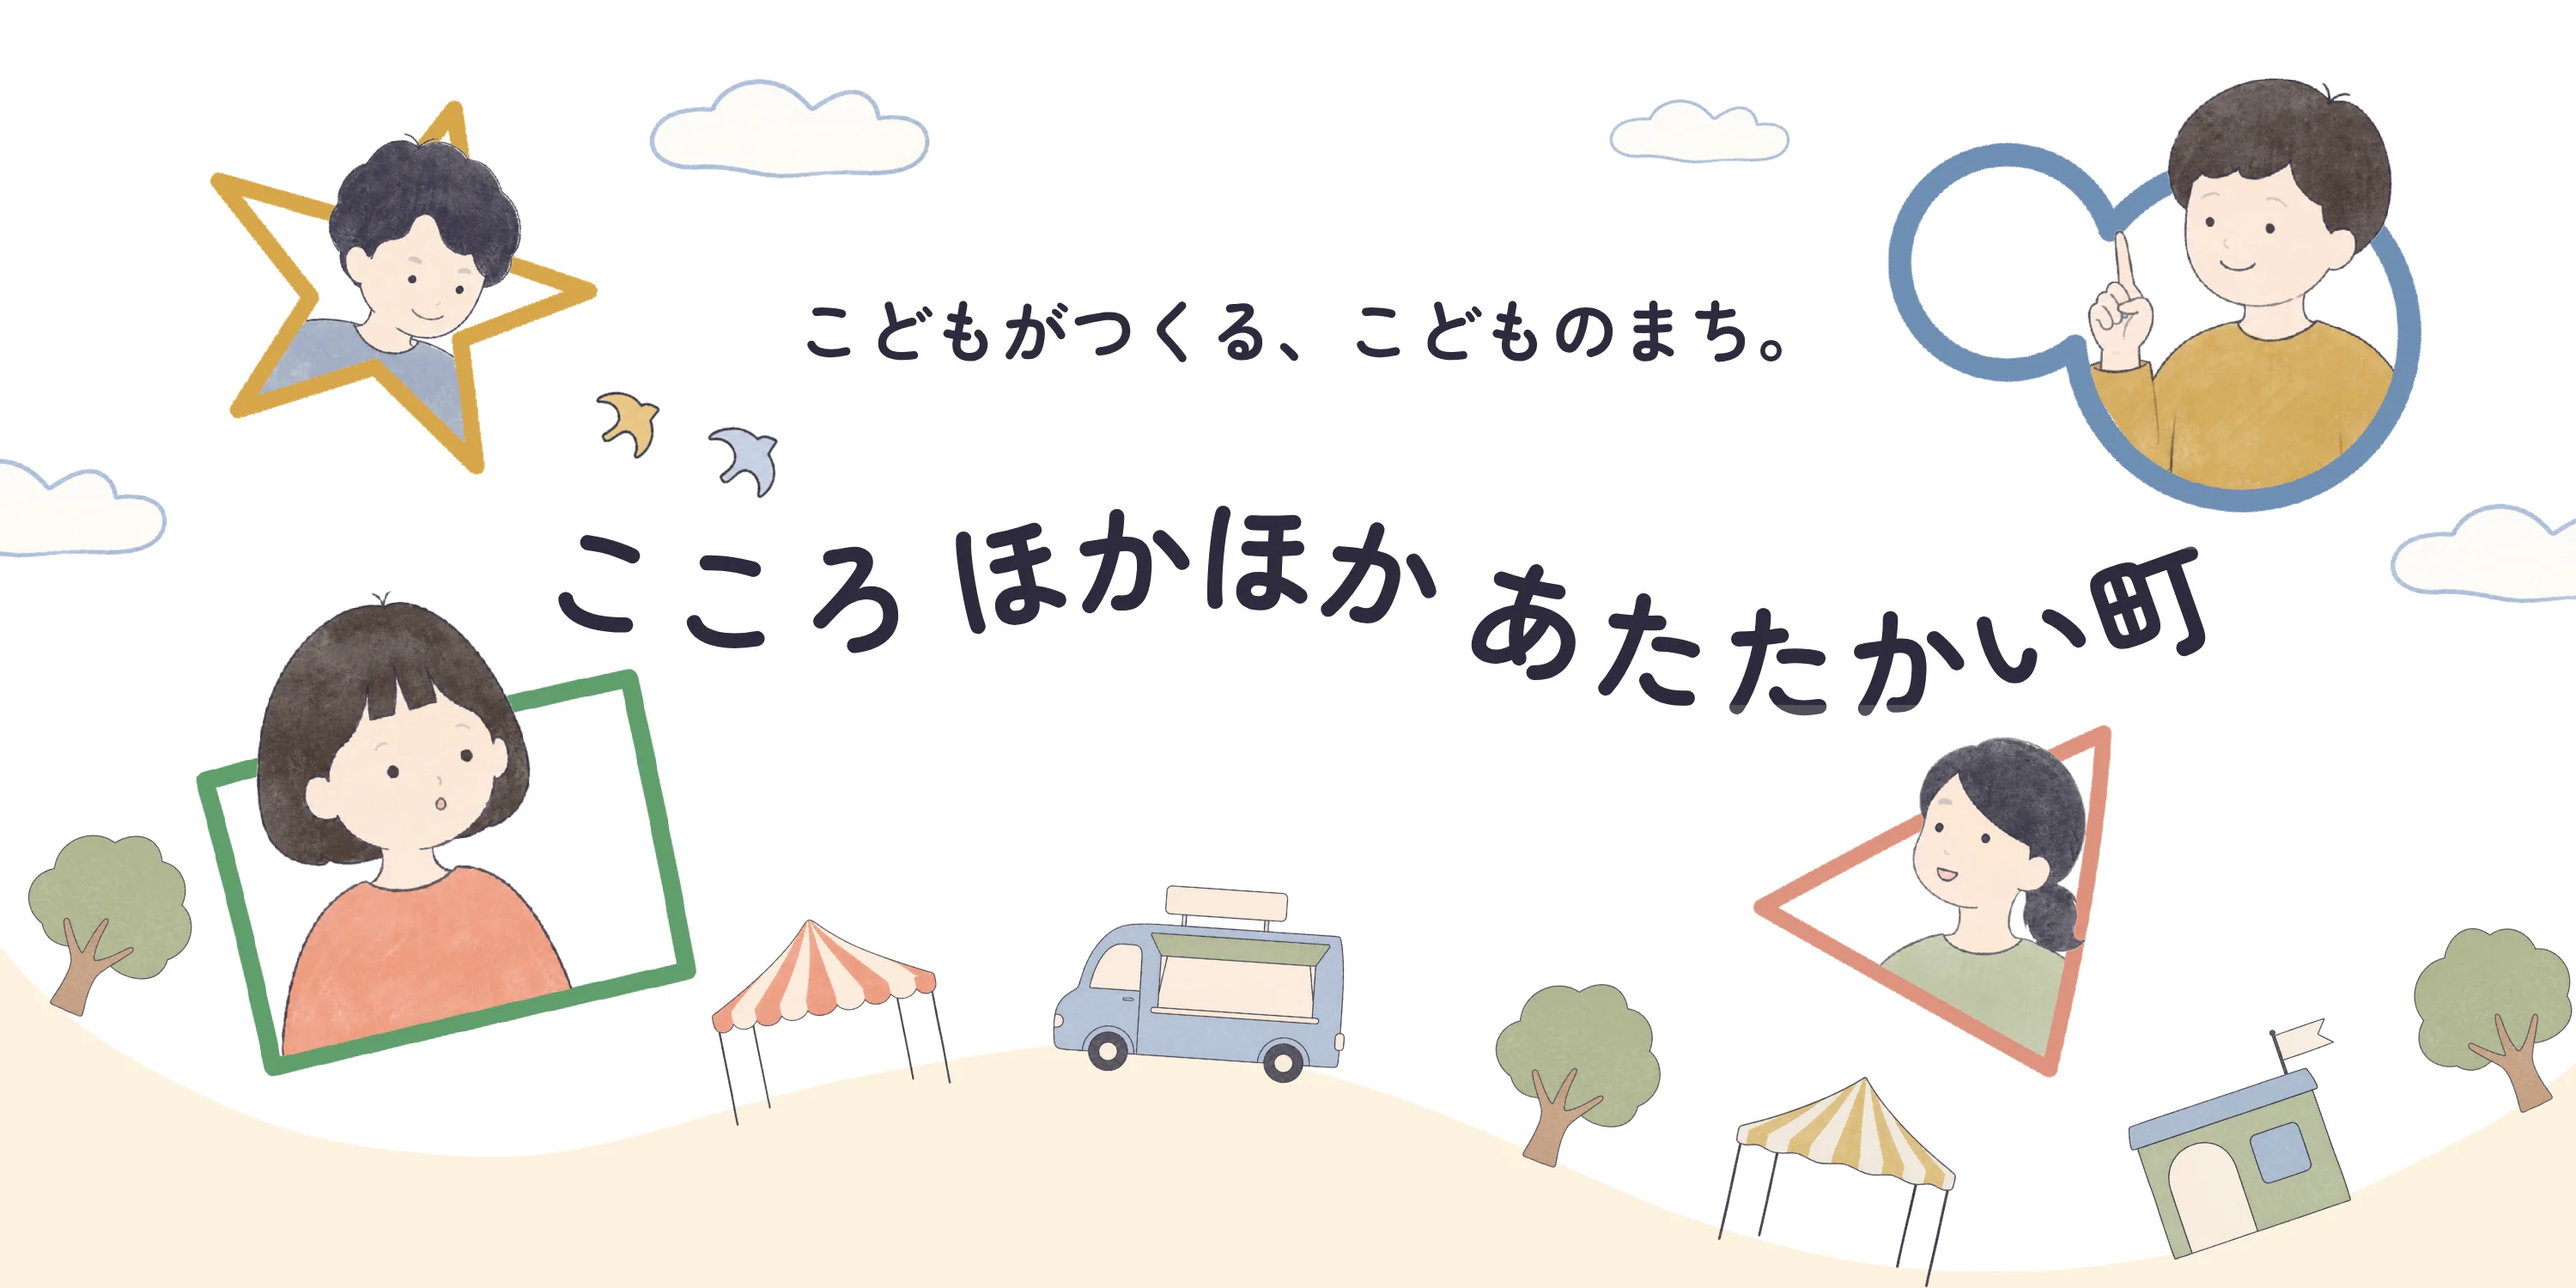
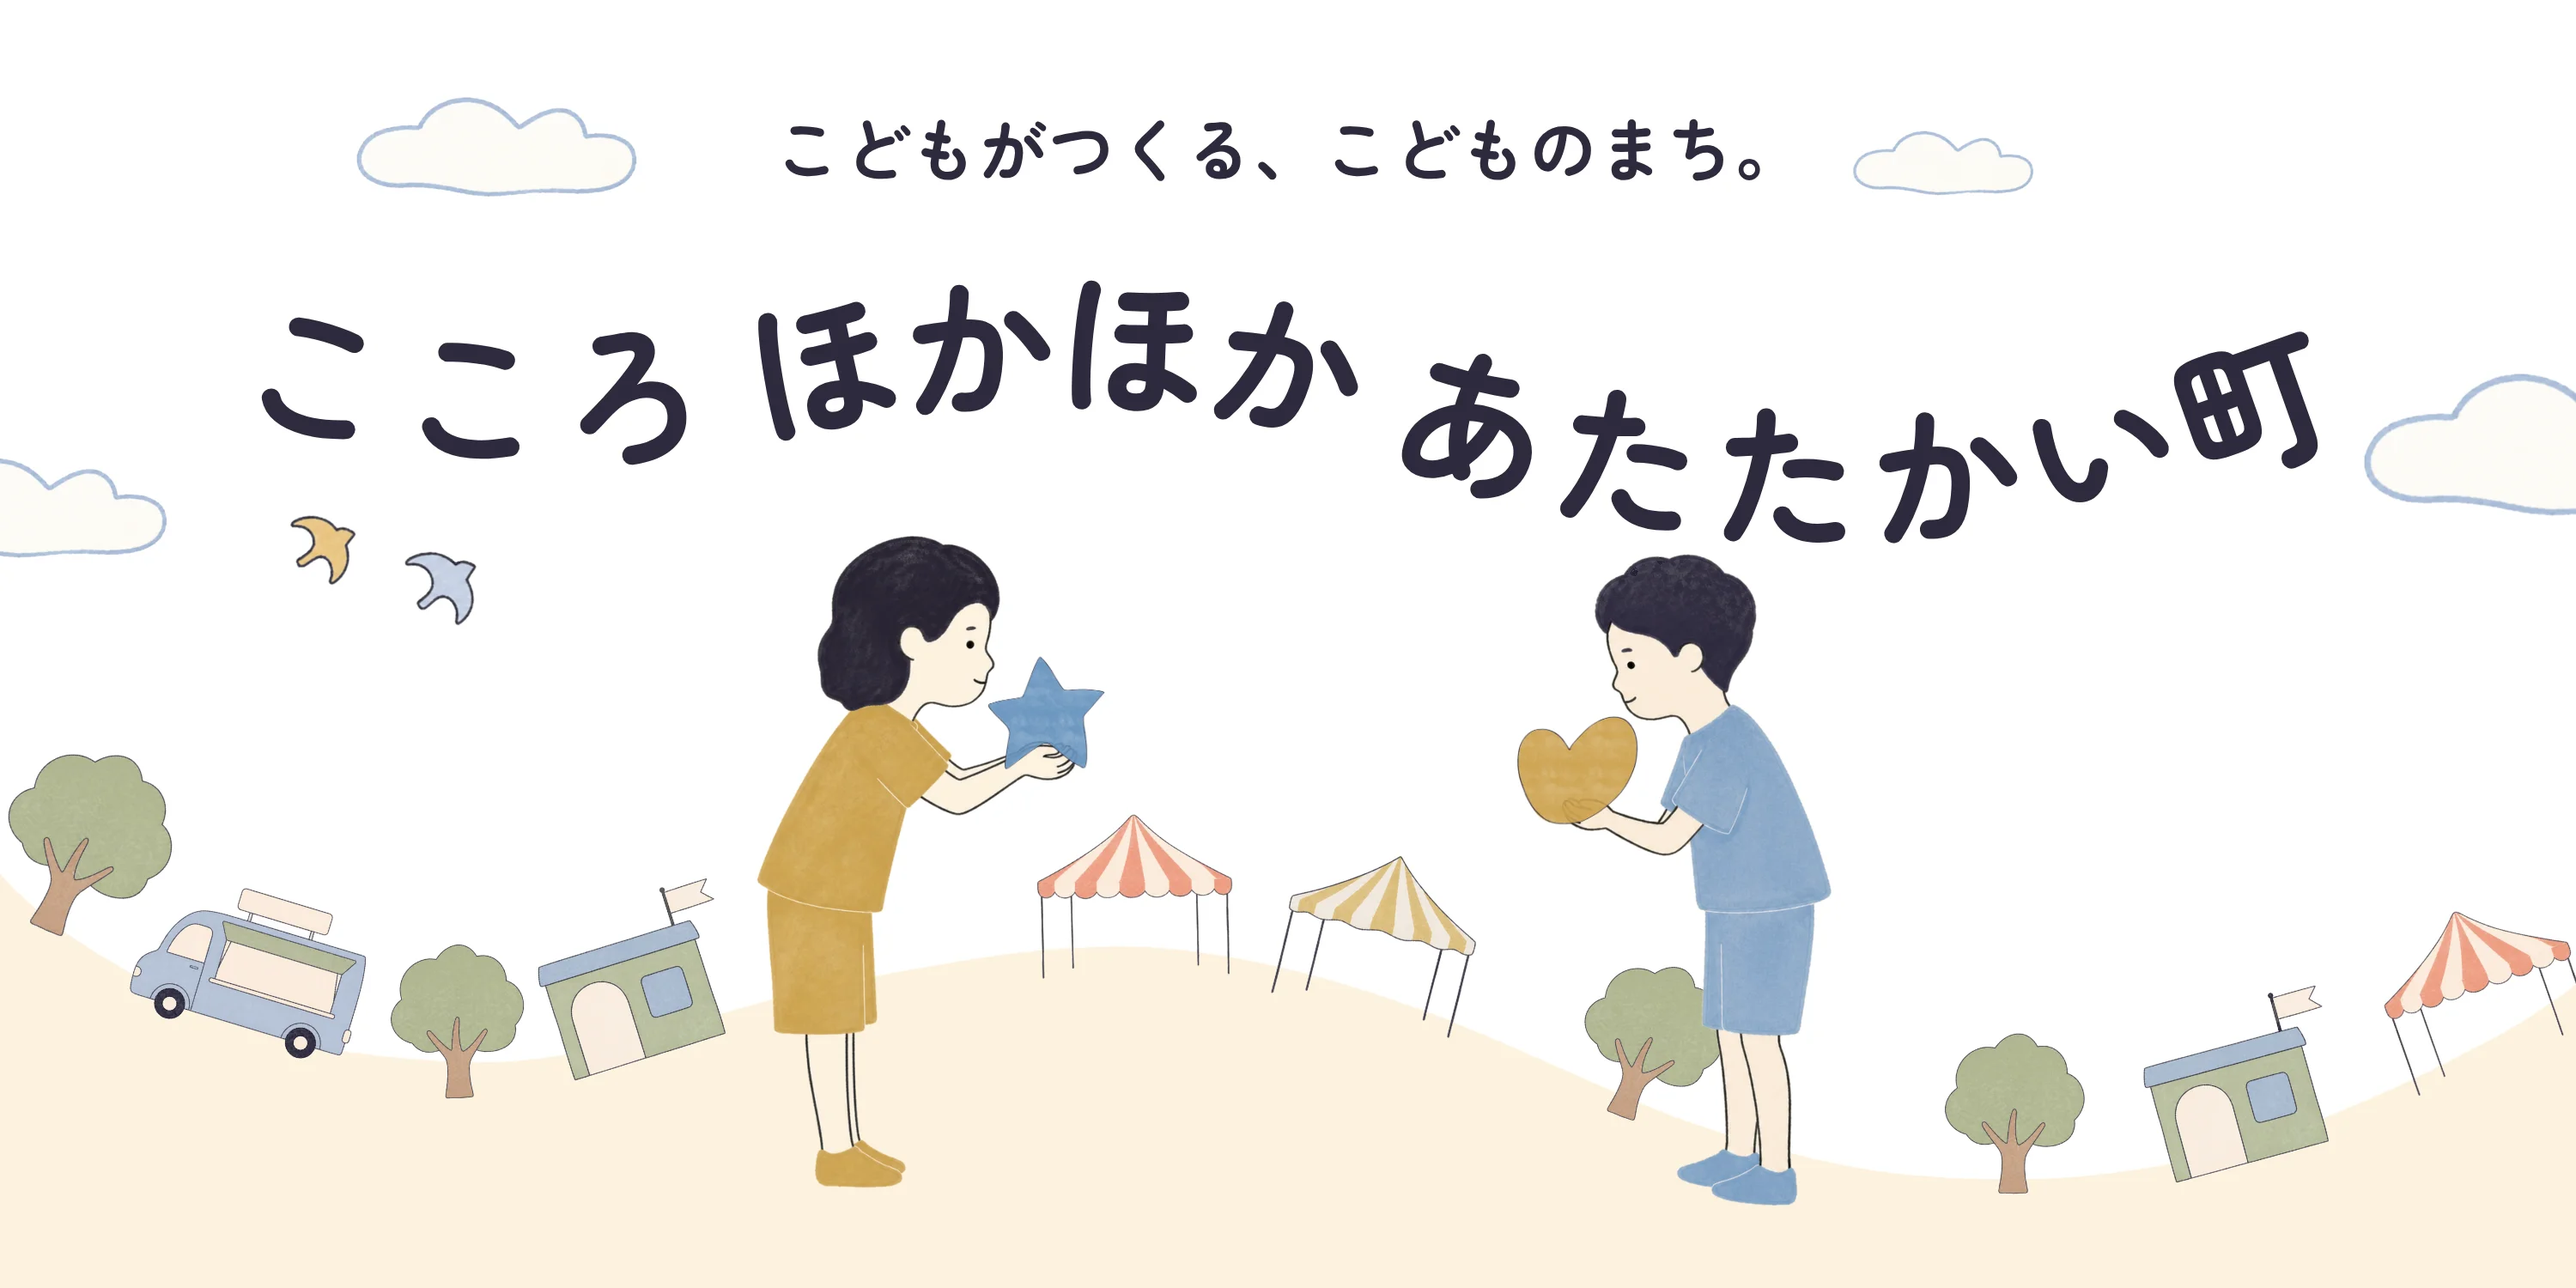
feat: キービジュアルを差し替え版に更新
紙媒体側の申し送り（_コード側への申し送り.md）に従い、_色調整 付きの
差し替え版2枚に更新。旧「キービジュアル完成版〜」は不使用。

- WebP再変換：PC 1147KB→109KB、スマホ 538KB→66KB
- 四辺の継ぎ目色を実測。今回は補正不要（#ffffff / #fdf2df で揃っている）
- ファイル名が同じためキャッシュされる。画像URLに ?v=2 を付与

diff --git a/index-new.html b/index-new.html
@@ -40,10 +40,10 @@
 <!-- ヒーロー：KVが主役 -->
 <section class="hero" id="top">
   <picture>
-    <source media="(max-width:767px)" type="image/webp" srcset="images/kv/kv-sp.webp">
-    <source media="(max-width:767px)" type="image/png"  srcset="images/kv/kv-sp.png">
-    <source type="image/webp" srcset="images/kv/kv-pc.webp">
-    <img src="images/kv/kv-pc.png" alt="こころほかほかあたたかい町 ここほか — こどもがつくる、こどものまち" class="kv" fetchpriority="high" decoding="async">
+    <source media="(max-width:767px)" type="image/webp" srcset="images/kv/kv-sp.webp?v=2">
+    <source media="(max-width:767px)" type="image/png"  srcset="images/kv/kv-sp.png?v=2">
+    <source type="image/webp" srcset="images/kv/kv-pc.webp?v=2">
+    <img src="images/kv/kv-pc.png?v=2" alt="こころほかほかあたたかい町 ここほか — こどもがつくる、こどものまち" class="kv" fetchpriority="high" decoding="async">
   </picture>
   <p class="hero-cap reveal"><span class="hc-in">2026.11.21 sat – 22 sun<span class="hc-sep"> ／ </span><br class="hc-br">新潟・古町7番町</span></p>
   <div class="scrollcue"></div>
